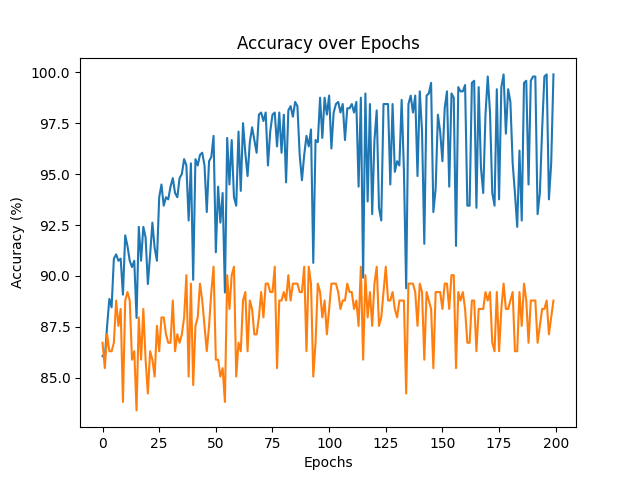
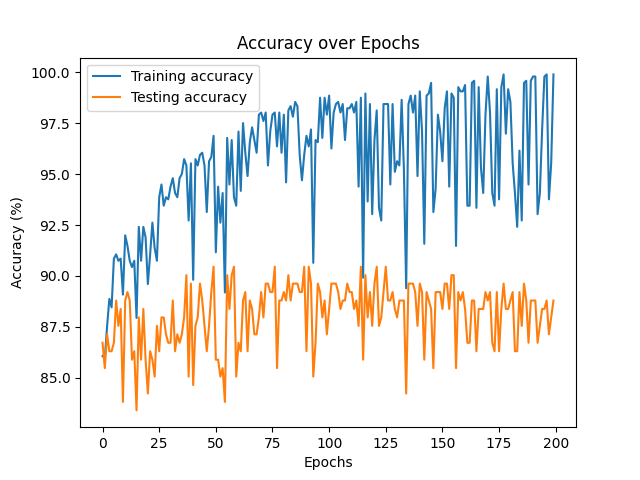
Add legend to graph

Changed region(s): [[0.125, 0.125, 0.4062, 0.2188]]

diff --git a/Perceptron-NNSL.py b/Perceptron-NNSL.py
@@ -68,7 +68,7 @@ class Perceptron():
 
         return np.where(np.dot(x, self.w[1:]) + self.w[0] > 0, 1, 0)
     
-    def train(self, x, t, epochs=200, eta=0.1):
+    def train(self, x, t, epochs=200, eta=0.01):
         accuracyListTrain = []
         accuracyListTest = []
 
@@ -129,7 +129,7 @@ print('Testing accuracy: {:.2f}%'.format(test_accuracy * 100))
 # Plot the accuracy over epochs
 plt.plot(accuracyListTrain, label='Training accuracy')
 plt.plot(accuracyListTest, label='Testing accuracy')
-
+plt.legend()
 plt.title('Accuracy over Epochs')
 plt.xlabel('Epochs')
 plt.ylabel('Accuracy (%)')
